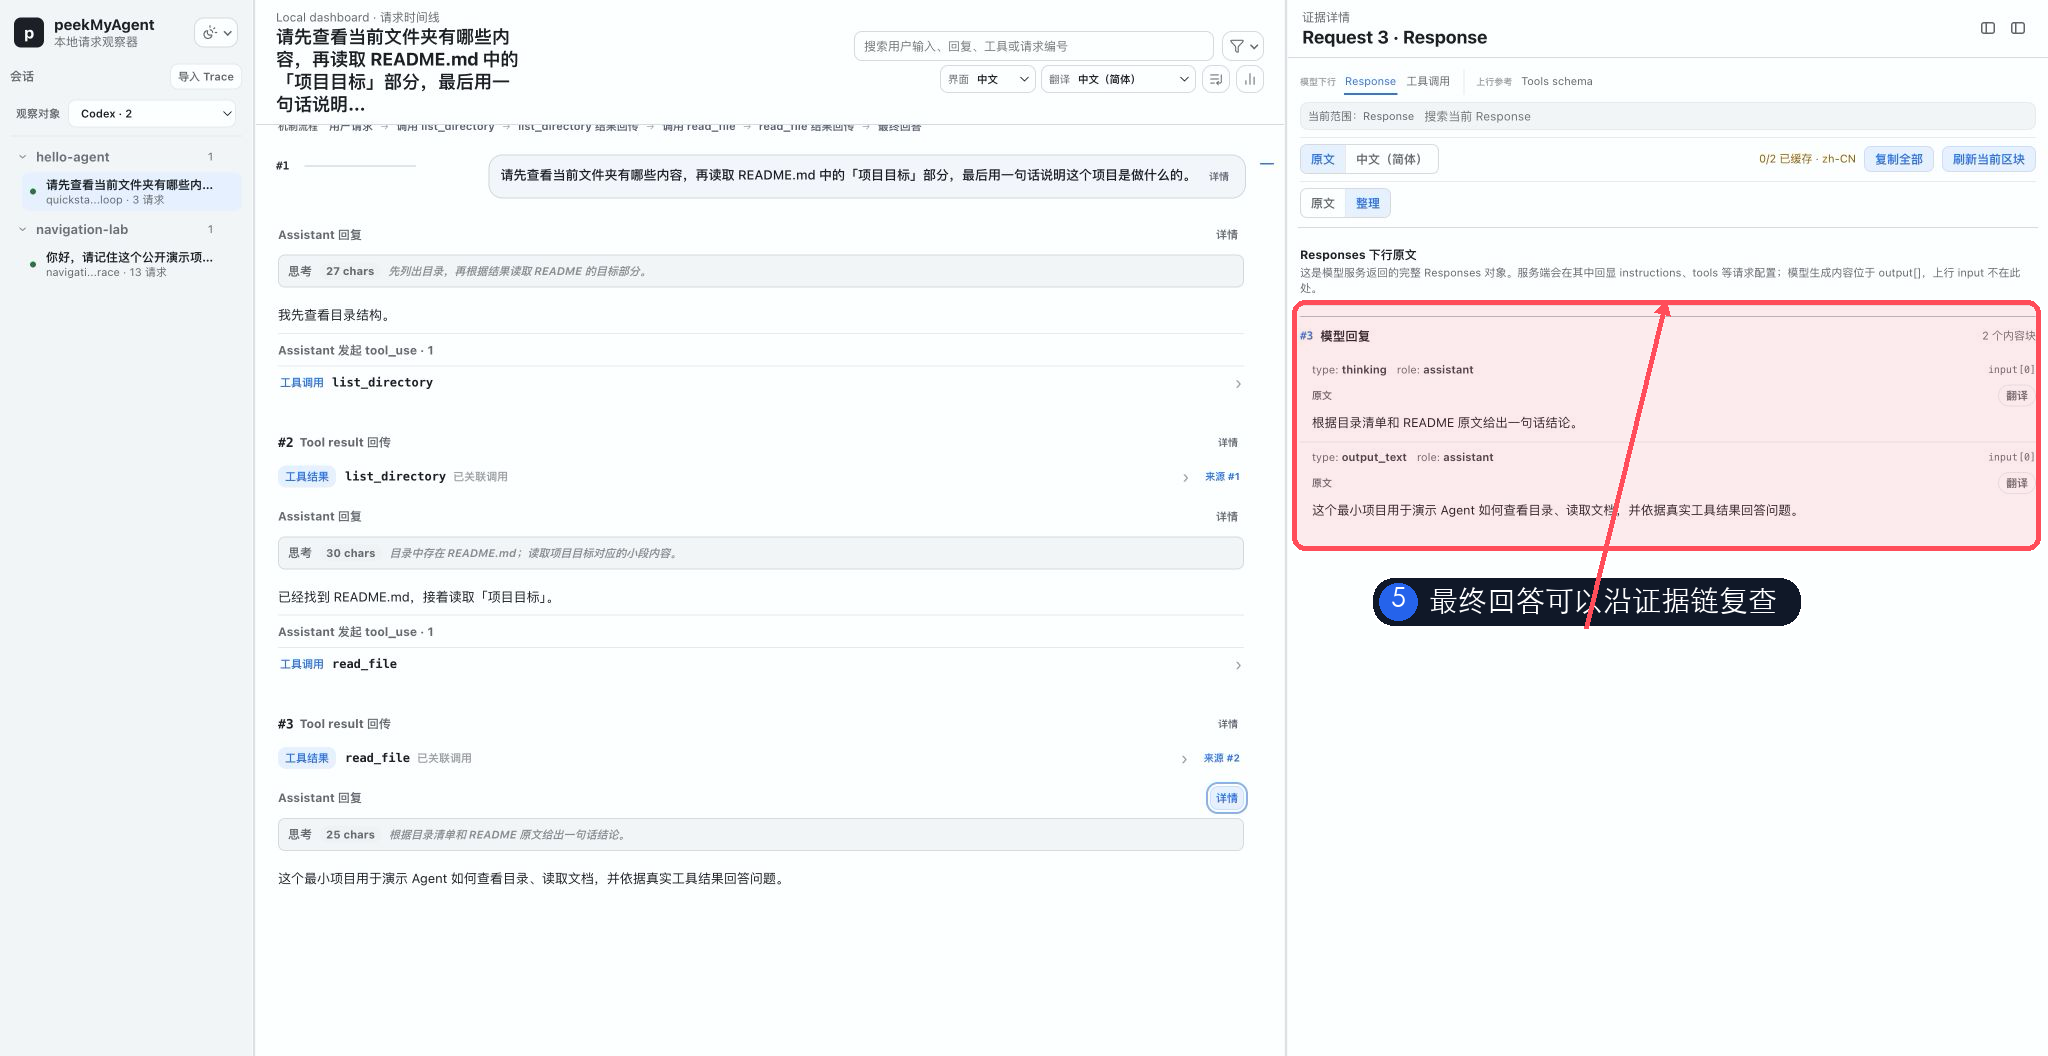
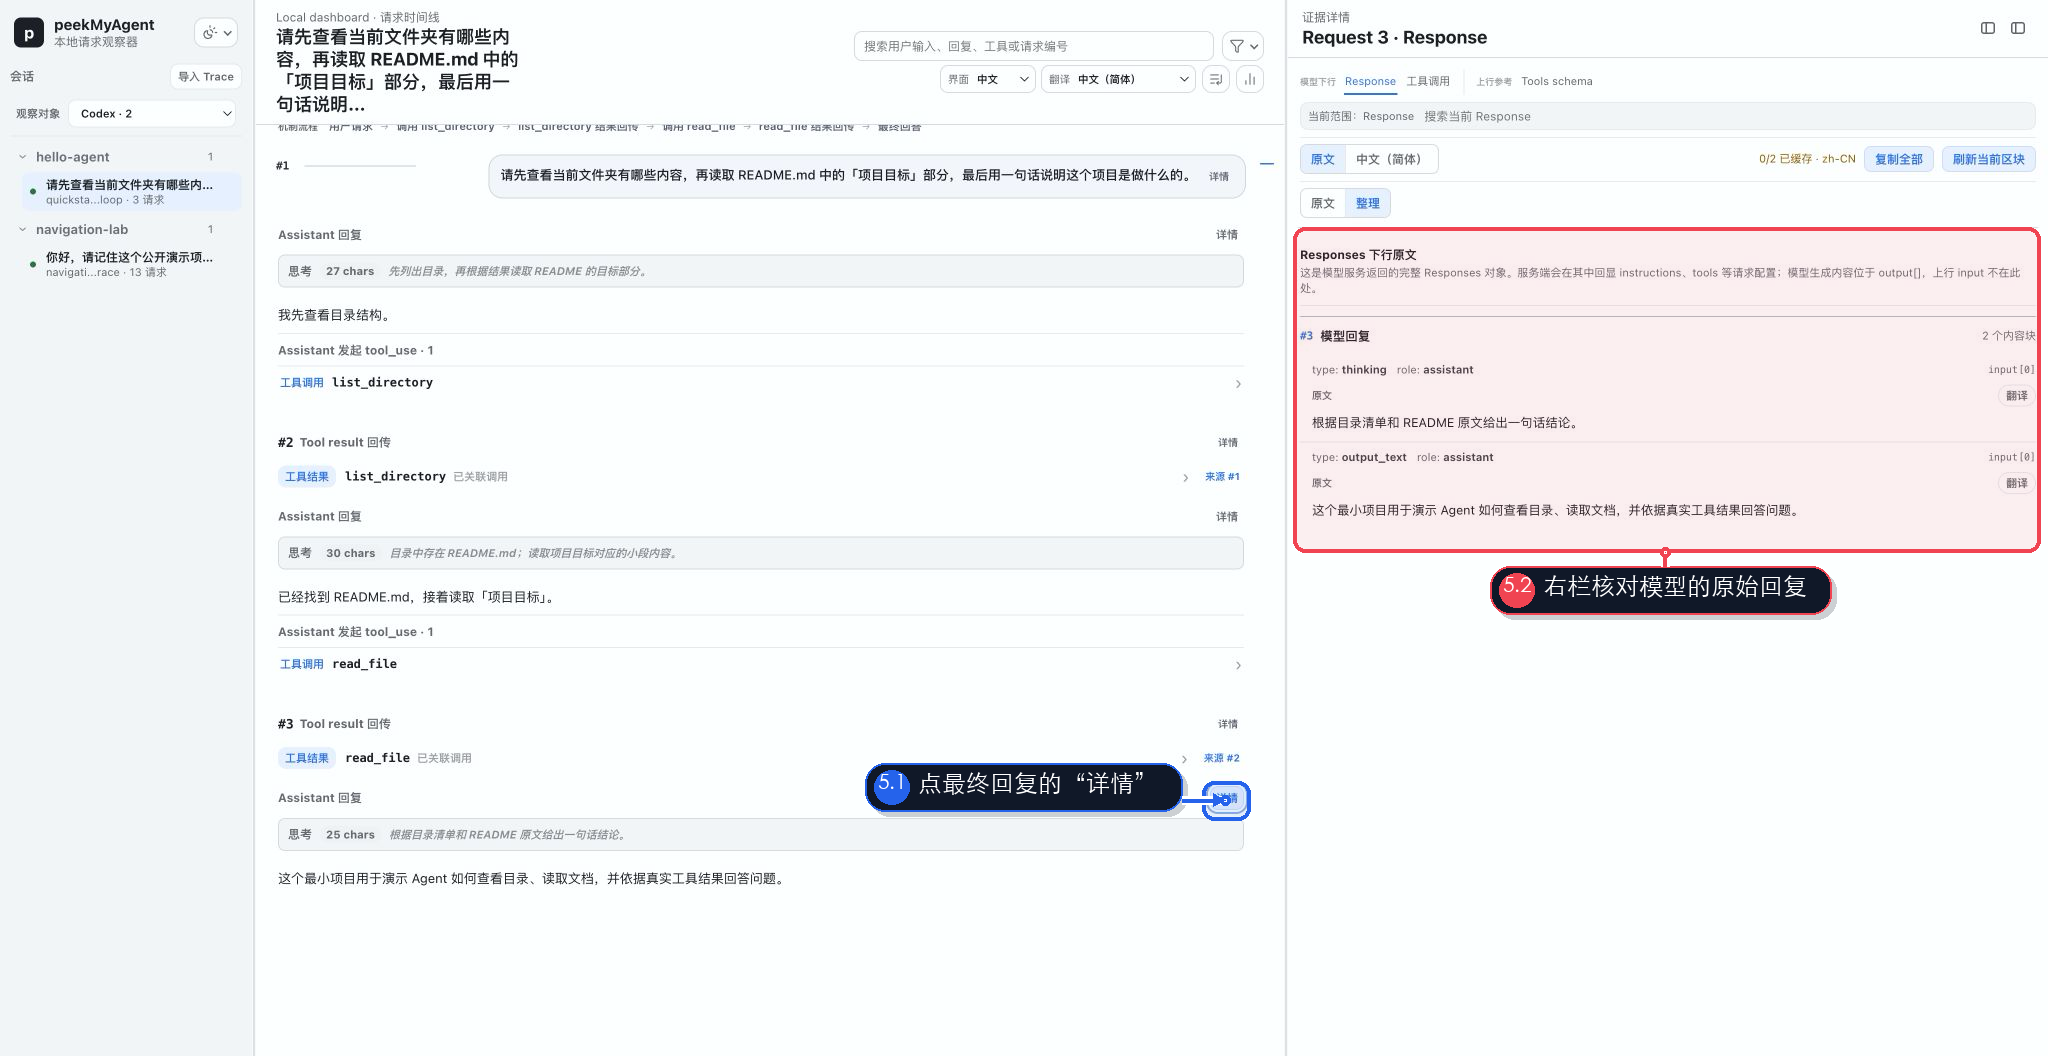
docs: show viewer interaction triggers

diff --git a/scripts/build-readme-media.py b/scripts/build-readme-media.py
@@ -20,10 +20,11 @@ FONT_CANDIDATES = (
     Path("/usr/share/fonts/truetype/dejavu/DejaVuSans.ttf"),
 )
 
-ACCENT = "#ff4d5a"
-ACCENT_FILL = (255, 77, 90, 28)
+ACTION = "#2563eb"
+ACTION_FILL = (37, 99, 235, 24)
+RESULT = "#f04452"
+RESULT_FILL = (240, 68, 82, 22)
 INK = "#101828"
-BLUE = "#2563eb"
 WHITE = "#ffffff"
 
 
@@ -45,27 +46,120 @@ def main() -> None:
     walkthrough = [
         annotate(
             frames["overview"],
-            [Callout("1", "先看完整执行链", (270, 145, 1250, 225), (340, 90))],
+            [Callout("1", "先快速扫一遍完整执行链", (270, 145, 1250, 225), (340, 90), "result")],
         ),
         annotate(
             frames["system"],
-            [Callout("2", "查看模型实际收到的系统指令", (1292, 180, 2040, 385), (1370, 118))],
+            [
+                Callout(
+                    "2.1",
+                    "点“详情”打开证据右栏",
+                    (1200, 232, 1248, 273),
+                    (930, 276),
+                    "action",
+                    (1223, 252),
+                ),
+                Callout(
+                    "2.2",
+                    "选择 System，查看实际指令",
+                    (1293, 178, 2040, 386),
+                    (1530, 112),
+                    "result",
+                    (1436, 82),
+                ),
+            ],
         ),
         annotate(
             frames["tool_result"],
-            [Callout("3", "工具结果进入下一次模型请求", (1292, 184, 2040, 425), (1360, 120))],
+            [
+                Callout(
+                    "3.1",
+                    "点击 list_directory 的工具结果",
+                    (275, 482, 515, 535),
+                    (590, 462),
+                    "action",
+                    (395, 507),
+                ),
+                Callout(
+                    "3.2",
+                    "右栏显示实际回传内容",
+                    (1293, 194, 2040, 417),
+                    (1515, 431),
+                    "result",
+                    (1660, 417),
+                ),
+            ],
         ),
         annotate(
             frames["tool_origin"],
-            [Callout("4", "一键回到产生结果的工具调用", (1292, 66, 2040, 382), (1370, 398))],
+            [
+                Callout(
+                    "4.1",
+                    "点击“来源 #1”追溯调用",
+                    (1192, 456, 1250, 493),
+                    (820, 436),
+                    "action",
+                    (1221, 475),
+                ),
+                Callout(
+                    "4.2",
+                    "PMA 跳回原始调用与参数",
+                    (1293, 65, 2040, 384),
+                    (1500, 397),
+                    "result",
+                    (1645, 384),
+                ),
+            ],
         ),
         annotate(
             frames["final"],
-            [Callout("5", "最终回答可以沿证据链复查", (1292, 300, 2040, 550), (1370, 575))],
+            [
+                Callout(
+                    "5.1",
+                    "点最终回复的“详情”",
+                    (1202, 781, 1250, 820),
+                    (865, 763),
+                    "action",
+                    (1225, 800),
+                ),
+                Callout(
+                    "5.2",
+                    "右栏核对模型的原始回复",
+                    (1293, 227, 2040, 552),
+                    (1490, 566),
+                    "result",
+                    (1665, 552),
+                ),
+            ],
         ),
         annotate(
             frames["protocol"],
-            [Callout("6", "按原生协议核对完整上下行", (1292, 142, 2040, 1050), (1370, 88))],
+            [
+                Callout(
+                    "6.1",
+                    "先打开一次请求的“详情”",
+                    (1202, 706, 1250, 744),
+                    (850, 687),
+                    "action",
+                    (1225, 725),
+                ),
+                Callout(
+                    "6.2",
+                    "点击“协议视图”",
+                    (1352, 67, 1415, 95),
+                    (1500, 104),
+                    "action",
+                    (1381, 81),
+                ),
+                Callout(
+                    "6.3",
+                    "当前：完整上行与下行顺序",
+                    (1293, 141, 2040, 1050),
+                    (805, 98),
+                    "result",
+                    (1293, 160),
+                ),
+            ],
         ),
     ]
     scene_names = ("trace", "system", "tool-result", "tool-origin", "final-answer", "protocol")
@@ -82,18 +176,18 @@ def main() -> None:
     navigation_walkthrough = [
         annotate(
             navigation_frame,
-            [Callout("A", "Turn Rail：先跳到目标轮次", (1254, 150, 1283, 246), (825, 245))],
+            [Callout("A", "Turn Rail：先跳到目标轮次", (1254, 150, 1283, 246), (858, 245), "action", (1268, 198))],
         ),
         annotate(
             navigation_frame,
-            [Callout("B", "Request Rail：再定位轮内请求", (270, 79, 1248, 127), (510, 18))],
+            [Callout("B", "Request Rail：再定位轮内请求", (270, 79, 1248, 127), (760, 132), "action", (840, 102))],
         ),
     ]
     annotate(
         navigation_frame,
         [
-            Callout("A", "Turn Rail：先跳到目标轮次", (1254, 150, 1283, 246), (825, 245)),
-            Callout("B", "Request Rail：再定位轮内请求", (270, 79, 1248, 127), (510, 18)),
+            Callout("A", "Turn Rail：先跳到目标轮次", (1254, 150, 1283, 246), (858, 245), "action", (1268, 198)),
+            Callout("B", "Request Rail：再定位轮内请求", (270, 79, 1248, 127), (760, 132), "action", (840, 102)),
         ],
     ).save(annotated_dir / "07-two-level-navigation.png", optimize=True)
     save_gif(navigation_walkthrough, args.output / "two-level-navigation.gif", [6500, 7500])
@@ -105,11 +199,21 @@ def main() -> None:
 
 
 class Callout:
-    def __init__(self, number: str, label: str, box: tuple[int, int, int, int], pill: tuple[int, int]):
+    def __init__(
+        self,
+        number: str,
+        label: str,
+        box: tuple[int, int, int, int],
+        pill: tuple[int, int],
+        kind: str = "result",
+        target: tuple[int, int] | None = None,
+    ):
         self.number = number
         self.label = label
         self.box = box
         self.pill = pill
+        self.kind = kind
+        self.target = target
 
 
 def load_frames(root: Path) -> dict[str, Image.Image]:
@@ -149,43 +253,102 @@ def annotate(base: Image.Image, callouts: list[Callout]) -> Image.Image:
     overlay = Image.new("RGBA", image.size, (0, 0, 0, 0))
     draw = ImageDraw.Draw(overlay)
     scale = max(1.0, image.width / 1536)
-    label_font = font(round(22 * scale), bold=True)
-    number_font = font(round(20 * scale), bold=True)
-    line_width = round(4 * scale)
+    label_font = font(round(18 * scale), bold=True)
+    number_font = font(round(16 * scale), bold=True)
+    line_width = round(3 * scale)
 
     for callout in callouts:
+        color, fill = annotation_colors(callout.kind)
         x1, y1, x2, y2 = callout.box
-        draw.rounded_rectangle(callout.box, radius=round(10 * scale), fill=ACCENT_FILL, outline=ACCENT, width=line_width)
+        draw.rounded_rectangle(callout.box, radius=round(9 * scale), fill=fill, outline=color, width=line_width)
 
         text_box = draw.textbbox((0, 0), callout.label, font=label_font)
         text_width = text_box[2] - text_box[0]
         pill_x, pill_y = callout.pill
-        pill_width = text_width + round(64 * scale)
-        pill_height = round(40 * scale)
+        pill_width = text_width + round(58 * scale)
+        pill_height = round(36 * scale)
+        shadow = round(4 * scale)
+        draw.rounded_rectangle(
+            (pill_x + shadow, pill_y + shadow, pill_x + pill_width + shadow, pill_y + pill_height + shadow),
+            radius=round(15 * scale),
+            fill=(16, 24, 40, 52),
+        )
         draw.rounded_rectangle(
             (pill_x, pill_y, pill_x + pill_width, pill_y + pill_height),
-            radius=round(18 * scale),
+            radius=round(15 * scale),
             fill=INK,
-            outline=WHITE,
-            width=round(2 * scale),
+            outline=color,
+            width=round(1.5 * scale),
         )
         circle_left = pill_x + round(7 * scale)
-        circle_top = pill_y + round(6 * scale)
-        circle_right = pill_x + round(35 * scale)
-        circle_bottom = pill_y + round(34 * scale)
-        draw.ellipse((circle_left, circle_top, circle_right, circle_bottom), fill=BLUE)
+        circle_top = pill_y + round(5 * scale)
+        circle_right = pill_x + round(33 * scale)
+        circle_bottom = pill_y + round(31 * scale)
+        draw.ellipse((circle_left, circle_top, circle_right, circle_bottom), fill=color)
         number_box = draw.textbbox((0, 0), callout.number, font=number_font)
         number_width = number_box[2] - number_box[0]
-        draw.text((pill_x + round(21 * scale) - number_width / 2, pill_y + round(7 * scale)), callout.number, fill=WHITE, font=number_font)
-        draw.text((pill_x + round(44 * scale), pill_y + round(8 * scale)), callout.label, fill=WHITE, font=label_font)
+        draw.text((pill_x + round(20 * scale) - number_width / 2, pill_y + round(6 * scale)), callout.number, fill=WHITE, font=number_font)
+        draw.text((pill_x + round(40 * scale), pill_y + round(6 * scale)), callout.label, fill=WHITE, font=label_font)
 
-        margin = round(18 * scale)
-        start = (pill_x + min(pill_width - margin, max(margin, pill_width // 2)), pill_y + pill_height)
-        target = ((x1 + x2) // 2, y1)
-        draw.line((start, target), fill=ACCENT, width=line_width)
-        draw.polygon(arrow_head(start, target, round(11 * scale)), fill=ACCENT)
+        target = callout.target or closest_box_point(callout.box, (pill_x + pill_width // 2, pill_y + pill_height // 2))
+        pill_bounds = (pill_x, pill_y, pill_x + pill_width, pill_y + pill_height)
+        start = closest_box_point(pill_bounds, target)
+        draw_connector(draw, start, target, color, line_width, scale)
 
     return Image.alpha_composite(image, overlay).convert("RGB")
+
+
+def annotation_colors(kind: str) -> tuple[str, tuple[int, int, int, int]]:
+    if kind == "action":
+        return ACTION, ACTION_FILL
+    return RESULT, RESULT_FILL
+
+
+def closest_box_point(box: tuple[int, int, int, int], point: tuple[int, int]) -> tuple[int, int]:
+    x1, y1, x2, y2 = box
+    px, py = point
+    candidates = [
+        (max(x1, min(px, x2)), y1),
+        (max(x1, min(px, x2)), y2),
+        (x1, max(y1, min(py, y2))),
+        (x2, max(y1, min(py, y2))),
+    ]
+    return min(candidates, key=lambda candidate: (candidate[0] - px) ** 2 + (candidate[1] - py) ** 2)
+
+
+def draw_connector(
+    draw: ImageDraw.ImageDraw,
+    start: tuple[int, int],
+    end: tuple[int, int],
+    color: str,
+    width: int,
+    scale: float,
+) -> None:
+    points = bezier_points(start, end)
+    draw.line(points, fill=WHITE, width=width + round(4 * scale), joint="curve")
+    draw.line(points, fill=color, width=width, joint="curve")
+    radius = round(4 * scale)
+    draw.ellipse((end[0] - radius, end[1] - radius, end[0] + radius, end[1] + radius), fill=WHITE, outline=color, width=width)
+    draw.polygon(arrow_head(points[-2], end, round(9 * scale)), fill=color)
+
+
+def bezier_points(start: tuple[int, int], end: tuple[int, int], steps: int = 24) -> list[tuple[int, int]]:
+    dx = end[0] - start[0]
+    dy = end[1] - start[1]
+    if abs(dx) >= abs(dy):
+        control1 = (start[0] + dx * 0.42, start[1])
+        control2 = (end[0] - dx * 0.18, end[1])
+    else:
+        control1 = (start[0], start[1] + dy * 0.42)
+        control2 = (end[0], end[1] - dy * 0.18)
+    points = []
+    for step in range(steps + 1):
+        t = step / steps
+        inverse = 1 - t
+        x = inverse**3 * start[0] + 3 * inverse**2 * t * control1[0] + 3 * inverse * t**2 * control2[0] + t**3 * end[0]
+        y = inverse**3 * start[1] + 3 * inverse**2 * t * control1[1] + 3 * inverse * t**2 * control2[1] + t**3 * end[1]
+        points.append((round(x), round(y)))
+    return points
 
 
 def arrow_head(start: tuple[int, int], end: tuple[int, int], size: int) -> list[tuple[float, float]]:

diff --git a/docs/visual-usage-guide.zh-CN.md b/docs/visual-usage-guide.zh-CN.md
@@ -45,12 +45,12 @@
 
 | 镜头 | 用户动作 | 画面重点 | 要证明的价值 | 标注 | 停留 |
 | --- | --- | --- | --- | --- | --- |
-| 1. 完整执行链 | 选择演示会话 | 用户请求、两次工具调用、两次结果回传和最终回答 | 一屏先理解 Agent 做了什么 | 先看完整执行链 | 5.2 秒 |
-| 2. System | 打开请求详情，选择 `System` | 模型实际收到的系统指令 | 摘要背后有可核对的上行上下文 | 查看模型实际收到的系统指令 | 6.5 秒 |
-| 3. 工具结果 | 点击 `list_directory` 结果 | 结果内容位于下一次模型请求 | 不只知道工具运行过，还能确认回传了什么 | 工具结果进入下一次模型请求 | 7.5 秒 |
-| 4. 来源调用 | 点击 `来源 #1` | 返回原始 `function_call` 和参数 | 长会话中也能快速关联调用与迟到结果 | 一键回到产生结果的工具调用 | 7.5 秒 |
-| 5. 最终回答 | 回到最终回复 | 回答与两项工具证据处于同一条链 | 用户可以检查回答是否真的基于文件内容 | 最终回答可以沿证据链复查 | 6.5 秒 |
-| 6. 协议 | 切换到 `协议视图` | 原生 input 顺序、工具、参数与回复 | 摘要不够时仍可核对完整上下行 | 按原生协议核对完整上下行 | 9.5 秒 |
+| 1. 完整执行链 | 选择演示会话 | 用户请求、两次工具调用、两次结果回传和最终回答 | 一屏先理解 Agent 做了什么 | 先快速扫一遍完整执行链 | 5.2 秒 |
+| 2. System | 点击请求右侧的 `详情`，再选择右栏 `System` | `详情` 如何打开证据右栏；模型实际收到的系统指令 | 第一次使用者能把触发按钮与结果区域对应起来 | `2.1` 蓝框指向 `详情`；`2.2` 红框标出 System 内容 | 6.5 秒 |
+| 3. 工具结果 | 点击 `list_directory` 的工具结果 | 左侧触发项与右侧实际回传内容 | 不只知道工具运行过，还能确认回传了什么 | `3.1` 蓝框标动作；`3.2` 红框标结果 | 7.5 秒 |
+| 4. 来源调用 | 点击 `来源 #1` | Viewer 跳回原始 `function_call` 和参数 | 长会话中也能快速关联调用与迟到结果 | `4.1` 蓝框标来源按钮；`4.2` 红框标原始调用 | 7.5 秒 |
+| 5. 最终回答 | 点击最终回复旁的 `详情` | 右栏 Response 与两项工具证据处于同一条链 | 用户可以检查回答是否真的基于文件内容 | `5.1` 蓝框标 `详情`；`5.2` 红框标原始回复 | 6.5 秒 |
+| 6. 协议 | 打开一次请求的 `详情`，再点击 `协议视图` | 原生 input 顺序、工具、参数与回复 | 摘要不够时仍可核对完整上下行 | `6.1` / `6.2` 蓝框标动作；`6.3` 红框标协议内容 | 9.5 秒 |
 
 总时长 42.7 秒。普通画面已超过 5 秒，复杂协议画面接近 10 秒；没有快速闪切，也没有无意义鼠标移动。
 
@@ -70,7 +70,8 @@
 - Codex 场景使用 Codex 主题；未来 Claude Code 场景使用 Claude 主题。
 - 暗夜主题只在主题切换说明中出现，不为每个教程重复录制一套。
 - 中文界面优先；英文和其他语言等中文版结构稳定后再翻译。
-- 每帧最多一个红框、一条箭头和一句短标注，不能遮住关键内容。
+- 蓝色只表示“点击这里”，红色只表示“随后查看这里”；同一镜头最多保留两步动作和一个结果区。
+- 箭头使用带白色描边的短曲线，优先沿留白区域连接，不穿过正文；标注卡片不能遮挡被点击按钮、当前标签或关键内容。
 - 主 GIF 是基于真实 Viewer 状态的慢速逐帧演示，不伪造产品中不存在的 UI。
 
 ## 素材与来源

diff --git a/assets/demo/README.md b/assets/demo/README.md
@@ -38,7 +38,7 @@ python3 scripts/build-readme-media.py
 - Codex 场景使用 Codex 主题；Claude Code 场景使用 Claude 主题。
 - 保留全屏桌面信息密度；当前基准视口为 2048×1056，右侧详情标签后必须有明显余量。
 - 一帧只传达一个重点，普通阅读画面至少 2.5～4 秒；本主 GIF 为提高可读性使用 5.2～9.5 秒。
-- 红框、箭头和短文字不能遮挡关键字段。
+- 蓝框表示点击动作，红框表示随后查看的结果；带白色描边的短曲线优先沿留白区域连接，不能遮挡按钮、当前标签或关键字段。
 - 尽量将 GIF 控制在 8 MiB 内；当前主 GIF 小于 2 MiB。
 - 保存原始帧、标注图、manifest 和生成脚本，以便 UI 更新后局部重录。
 - 分享前逐帧检查路径、提示词、源码、工具结果、认证信息和历史消息。
